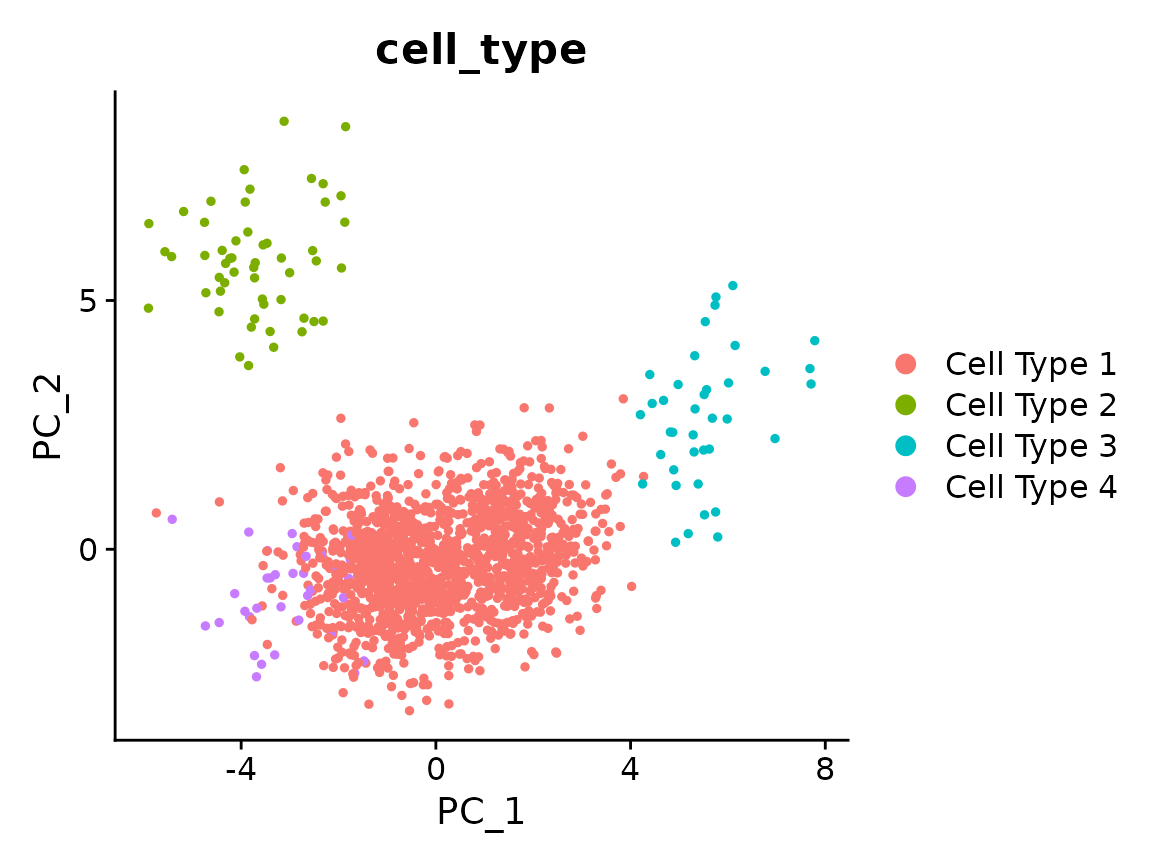
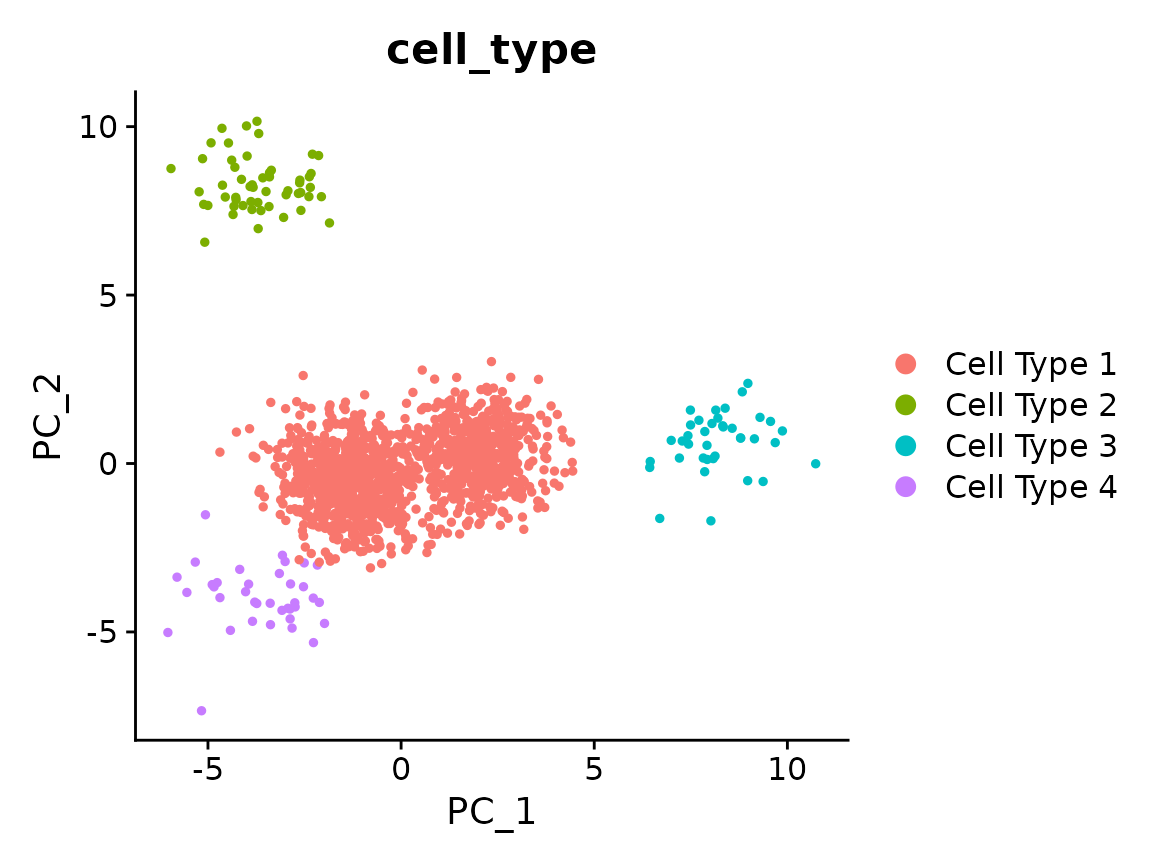
Deploying to gh-pages from @ MartinLoza/Canek@cd2e9c60eefc0420d307918d206038c7bbc76179 🚀

diff --git a/articles/seurat.html b/articles/seurat.html
@@ -39,7 +39,7 @@
       </button>
       <span class="navbar-brand">
         <a class="navbar-link" href="../index.html">Canek</a>
-        <span class="version label label-default" data-toggle="tooltip" data-placement="bottom" title="">0.2.1</span>
+        <span class="version label label-default" data-toggle="tooltip" data-placement="bottom" title="">0.2.2</span>
       </span>
     </div>
 
@@ -120,7 +120,7 @@
 <span><span class="co">#&gt; 631 948</span></span></code></pre></div>
 <div class="sourceCode" id="cb4"><pre class="downlit sourceCode r">
 <code class="sourceCode R"><span><span class="va">x</span> <span class="op">&lt;-</span> <span class="fu"><a href="https://satijalab.org/seurat/reference/NormalizeData.html" class="external-link">NormalizeData</a></span><span class="op">(</span><span class="va">x</span><span class="op">)</span></span>
-<span><span class="va">x</span> <span class="op">&lt;-</span> <span class="fu"><a href="https://satijalab.org/seurat/reference/FindVariableFeatures.html" class="external-link">FindVariableFeatures</a></span><span class="op">(</span><span class="va">x</span>, selection.method <span class="op">=</span> <span class="st">"mean.var.plot"</span><span class="op">)</span></span>
+<span><span class="va">x</span> <span class="op">&lt;-</span> <span class="fu"><a href="https://satijalab.org/seurat/reference/FindVariableFeatures.html" class="external-link">FindVariableFeatures</a></span><span class="op">(</span><span class="va">x</span>, nfeatures<span class="op">=</span><span class="fl">100</span><span class="op">)</span></span>
 <span><span class="fu"><a href="https://satijalab.org/seurat/reference/VariableFeaturePlot.html" class="external-link">VariableFeaturePlot</a></span><span class="op">(</span><span class="va">x</span><span class="op">)</span></span></code></pre></div>
 <p><img src="seurat_files/figure-html/unnamed-chunk-4-1.png" width="576" style="display: block; margin: auto;"></p>
 <div class="sourceCode" id="cb5"><pre class="downlit sourceCode r">
@@ -131,40 +131,40 @@
 <span><span class="co">#&gt; Warning in irlba(A = t(x = object), nv = npcs, ...): You're computing too large</span></span>
 <span><span class="co">#&gt; a percentage of total singular values, use a standard svd instead.</span></span>
 <span><span class="co">#&gt; PC_ 1 </span></span>
-<span><span class="co">#&gt; Positive:  Gene65, Gene410, Gene373, Gene449, Gene323, Gene473, Gene61, Gene250, Gene50, Gene89 </span></span>
-<span><span class="co">#&gt;     Gene378, Gene342, Gene469, Gene24, Gene207, Gene213, Gene54, Gene471, Gene224, Gene64 </span></span>
-<span><span class="co">#&gt;     Gene4, Gene348, Gene432, Gene375, Gene94, Gene422, Gene439, Gene396, Gene78, Gene487 </span></span>
-<span><span class="co">#&gt; Negative:  Gene461, Gene341, Gene492, Gene183, Gene136, Gene31, Gene366, Gene311, Gene5, Gene140 </span></span>
-<span><span class="co">#&gt;     Gene460, Gene438, Gene162, Gene187, Gene211, Gene370, Gene401, Gene172, Gene147, Gene474 </span></span>
-<span><span class="co">#&gt;     Gene326, Gene223, Gene74, Gene354, Gene220, Gene361, Gene304, Gene77, Gene322, Gene359 </span></span>
+<span><span class="co">#&gt; Positive:  Gene130, Gene410, Gene373, Gene65, Gene274, Gene481, Gene285, Gene449, Gene382, Gene281 </span></span>
+<span><span class="co">#&gt;     Gene323, Gene376, Gene229, Gene489, Gene473, Gene61, Gene50, Gene427, Gene174, Gene484 </span></span>
+<span><span class="co">#&gt;     Gene193, Gene207, Gene24, Gene342, Gene297, Gene471, Gene292, Gene255, Gene226, Gene348 </span></span>
+<span><span class="co">#&gt; Negative:  Gene461, Gene341, Gene492, Gene389, Gene178, Gene136, Gene468, Gene183, Gene366, Gene362 </span></span>
+<span><span class="co">#&gt;     Gene234, Gene127, Gene416, Gene290, Gene5, Gene228, Gene311, Gene31, Gene9, Gene162 </span></span>
+<span><span class="co">#&gt;     Gene370, Gene172, Gene474, Gene74, Gene386, Gene30, Gene401, Gene296, Gene326, Gene185 </span></span>
 <span><span class="co">#&gt; PC_ 2 </span></span>
-<span><span class="co">#&gt; Positive:  Gene322, Gene31, Gene223, Gene211, Gene64, Gene373, Gene341, Gene410, Gene449, Gene323 </span></span>
-<span><span class="co">#&gt;     Gene224, Gene220, Gene327, Gene361, Gene461, Gene207, Gene61, Gene89, Gene209, Gene183 </span></span>
-<span><span class="co">#&gt;     Gene375, Gene487, Gene75, Gene354, Gene378, Gene451, Gene348, Gene471, Gene77, Gene460 </span></span>
-<span><span class="co">#&gt; Negative:  Gene4, Gene366, Gene74, Gene213, Gene136, Gene65, Gene473, Gene94, Gene492, Gene5 </span></span>
-<span><span class="co">#&gt;     Gene78, Gene14, Gene311, Gene326, Gene432, Gene422, Gene438, Gene401, Gene497, Gene328 </span></span>
-<span><span class="co">#&gt;     Gene474, Gene250, Gene381, Gene147, Gene141, Gene342, Gene54, Gene172, Gene239, Gene162 </span></span>
+<span><span class="co">#&gt; Positive:  Gene322, Gene31, Gene498, Gene297, Gene174, Gene223, Gene472, Gene228, Gene461, Gene341 </span></span>
+<span><span class="co">#&gt;     Gene481, Gene489, Gene9, Gene449, Gene61, Gene176, Gene234, Gene160, Gene220, Gene427 </span></span>
+<span><span class="co">#&gt;     Gene323, Gene373, Gene57, Gene303, Gene24, Gene410, Gene292, Gene298, Gene239, Gene382 </span></span>
+<span><span class="co">#&gt; Negative:  Gene358, Gene17, Gene4, Gene229, Gene484, Gene296, Gene74, Gene366, Gene386, Gene65 </span></span>
+<span><span class="co">#&gt;     Gene165, Gene213, Gene473, Gene226, Gene94, Gene369, Gene401, Gene185, Gene136, Gene376 </span></span>
+<span><span class="co">#&gt;     Gene389, Gene78, Gene183, Gene492, Gene28, Gene36, Gene311, Gene285, Gene471, Gene326 </span></span>
 <span><span class="co">#&gt; PC_ 3 </span></span>
-<span><span class="co">#&gt; Positive:  Gene311, Gene239, Gene471, Gene322, Gene492, Gene410, Gene323, Gene65, Gene378, Gene354 </span></span>
-<span><span class="co">#&gt;     Gene5, Gene469, Gene250, Gene183, Gene136, Gene207, Gene438, Gene348, Gene461, Gene453 </span></span>
-<span><span class="co">#&gt;     Gene439, Gene366, Gene64, Gene31, Gene140, Gene75, Gene22, Gene432, Gene141, Gene24 </span></span>
-<span><span class="co">#&gt; Negative:  Gene327, Gene94, Gene224, Gene223, Gene77, Gene449, Gene74, Gene341, Gene220, Gene162 </span></span>
-<span><span class="co">#&gt;     Gene473, Gene209, Gene326, Gene304, Gene261, Gene89, Gene474, Gene342, Gene187, Gene460 </span></span>
-<span><span class="co">#&gt;     Gene50, Gene18, Gene4, Gene396, Gene61, Gene213, Gene147, Gene361, Gene422, Gene381 </span></span>
+<span><span class="co">#&gt; Positive:  Gene178, Gene290, Gene255, Gene303, Gene449, Gene489, Gene481, Gene160, Gene239, Gene285 </span></span>
+<span><span class="co">#&gt;     Gene61, Gene94, Gene366, Gene162, Gene136, Gene213, Gene342, Gene416, Gene369, Gene5 </span></span>
+<span><span class="co">#&gt;     Gene24, Gene4, Gene17, Gene74, Gene226, Gene461, Gene473, Gene229, Gene390, Gene474 </span></span>
+<span><span class="co">#&gt; Negative:  Gene183, Gene484, Gene472, Gene471, Gene322, Gene401, Gene296, Gene193, Gene386, Gene327 </span></span>
+<span><span class="co">#&gt;     Gene185, Gene382, Gene223, Gene427, Gene3, Gene373, Gene174, Gene281, Gene274, Gene477 </span></span>
+<span><span class="co">#&gt;     Gene305, Gene341, Gene31, Gene130, Gene311, Gene220, Gene207, Gene389, Gene498, Gene297 </span></span>
 <span><span class="co">#&gt; PC_ 4 </span></span>
-<span><span class="co">#&gt; Positive:  Gene61, Gene449, Gene261, Gene239, Gene461, Gene162, Gene209, Gene141, Gene342, Gene195 </span></span>
-<span><span class="co">#&gt;     Gene5, Gene439, Gene31, Gene250, Gene24, Gene136, Gene54, Gene94, Gene64, Gene298 </span></span>
-<span><span class="co">#&gt;     Gene22, Gene323, Gene14, Gene147, Gene366, Gene381, Gene211, Gene474, Gene140, Gene359 </span></span>
-<span><span class="co">#&gt; Negative:  Gene183, Gene401, Gene224, Gene471, Gene327, Gene361, Gene311, Gene50, Gene373, Gene65 </span></span>
-<span><span class="co">#&gt;     Gene378, Gene422, Gene4, Gene322, Gene223, Gene74, Gene487, Gene207, Gene220, Gene213 </span></span>
-<span><span class="co">#&gt;     Gene497, Gene375, Gene18, Gene78, Gene453, Gene243, Gene410, Gene304, Gene473, Gene492 </span></span>
+<span><span class="co">#&gt; Positive:  Gene427, Gene477, Gene57, Gene322, Gene311, Gene183, Gene28, Gene22, Gene127, Gene30 </span></span>
+<span><span class="co">#&gt;     Gene165, Gene5, Gene432, Gene474, Gene3, Gene239, Gene24, Gene281, Gene352, Gene390 </span></span>
+<span><span class="co">#&gt;     Gene193, Gene65, Gene369, Gene78, Gene213, Gene50, Gene342, Gene354, Gene298, Gene292 </span></span>
+<span><span class="co">#&gt; Negative:  Gene386, Gene274, Gene228, Gene94, Gene395, Gene327, Gene178, Gene223, Gene341, Gene449 </span></span>
+<span><span class="co">#&gt;     Gene145, Gene461, Gene484, Gene468, Gene61, Gene473, Gene31, Gene297, Gene36, Gene498 </span></span>
+<span><span class="co">#&gt;     Gene481, Gene234, Gene172, Gene185, Gene410, Gene290, Gene18, Gene207, Gene472, Gene174 </span></span>
 <span><span class="co">#&gt; PC_ 5 </span></span>
-<span><span class="co">#&gt; Positive:  Gene94, Gene207, Gene449, Gene461, Gene75, Gene4, Gene410, Gene304, Gene261, Gene65 </span></span>
-<span><span class="co">#&gt;     Gene354, Gene327, Gene366, Gene136, Gene54, Gene492, Gene473, Gene74, Gene18, Gene31 </span></span>
-<span><span class="co">#&gt;     Gene341, Gene323, Gene348, Gene239, Gene223, Gene311, Gene213, Gene172, Gene224, Gene61 </span></span>
-<span><span class="co">#&gt; Negative:  Gene422, Gene195, Gene89, Gene209, Gene250, Gene432, Gene22, Gene342, Gene147, Gene396 </span></span>
-<span><span class="co">#&gt;     Gene359, Gene140, Gene78, Gene453, Gene220, Gene243, Gene14, Gene474, Gene326, Gene50 </span></span>
-<span><span class="co">#&gt;     Gene322, Gene439, Gene77, Gene425, Gene298, Gene183, Gene24, Gene438, Gene162, Gene361</span></span></code></pre></div>
+<span><span class="co">#&gt; Positive:  Gene327, Gene191, Gene36, Gene223, Gene162, Gene305, Gene220, Gene474, Gene50, Gene285 </span></span>
+<span><span class="co">#&gt;     Gene74, Gene342, Gene174, Gene160, Gene234, Gene326, Gene373, Gene341, Gene468, Gene78 </span></span>
+<span><span class="co">#&gt;     Gene382, Gene473, Gene352, Gene281, Gene416, Gene255, Gene375, Gene298, Gene94, Gene30 </span></span>
+<span><span class="co">#&gt; Negative:  Gene178, Gene311, Gene297, Gene303, Gene410, Gene165, Gene461, Gene193, Gene471, Gene323 </span></span>
+<span><span class="co">#&gt;     Gene239, Gene376, Gene65, Gene492, Gene386, Gene207, Gene31, Gene136, Gene472, Gene185 </span></span>
+<span><span class="co">#&gt;     Gene481, Gene322, Gene362, Gene389, Gene489, Gene366, Gene484, Gene229, Gene427, Gene9</span></span></code></pre></div>
 <div class="section level3">
 <h3 id="pca-plot-before-correction">PCA plot before correction<a class="anchor" aria-label="anchor" href="#pca-plot-before-correction"></a>
 </h3>
@@ -185,61 +185,62 @@
 <span><span class="co">#&gt; Warning in (function (A, nv = 5, nu = nv, maxit = 1000, work = nv + 7, reorth =</span></span>
 <span><span class="co">#&gt; TRUE, : You're computing too large a percentage of total singular values, use a</span></span>
 <span><span class="co">#&gt; standard svd instead.</span></span></code></pre></div>
+<p>The features selected during integration are assigned as variable
+features.</p>
 <div class="sourceCode" id="cb10"><pre class="downlit sourceCode r">
-<code class="sourceCode R"><span><span class="va">x</span> <span class="op">&lt;-</span> <span class="fu"><a href="https://satijalab.org/seurat/reference/ScaleData.html" class="external-link">ScaleData</a></span><span class="op">(</span><span class="va">x</span><span class="op">)</span></span>
-<span><span class="co">#&gt; Centering and scaling data matrix</span></span></code></pre></div>
+<code class="sourceCode R"><span><span class="fu"><a href="https://rdrr.io/r/utils/head.html" class="external-link">head</a></span><span class="op">(</span><span class="fu"><a href="https://mojaveazure.github.io/seurat-object/reference/VariableFeatures.html" class="external-link">VariableFeatures</a></span><span class="op">(</span><span class="va">x</span>, assay<span class="op">=</span><span class="st">"Canek"</span><span class="op">)</span><span class="op">)</span></span>
+<span><span class="co">#&gt; [1] "Gene461" "Gene348" "Gene322" "Gene57"  "Gene61"  "Gene183"</span></span></code></pre></div>
+<p>We scale features and run PCA.</p>
 <div class="sourceCode" id="cb11"><pre class="downlit sourceCode r">
-<code class="sourceCode R"><span><span class="va">x</span> <span class="op">&lt;-</span> <span class="fu"><a href="https://satijalab.org/seurat/reference/FindVariableFeatures.html" class="external-link">FindVariableFeatures</a></span><span class="op">(</span><span class="va">x</span>, nfeatures <span class="op">=</span> <span class="fl">500</span><span class="op">)</span></span>
-<span><span class="fu"><a href="https://satijalab.org/seurat/reference/VariableFeaturePlot.html" class="external-link">VariableFeaturePlot</a></span><span class="op">(</span><span class="va">x</span><span class="op">)</span></span></code></pre></div>
-<p><img src="seurat_files/figure-html/unnamed-chunk-10-1.png" width="576" style="display: block; margin: auto;"></p>
-<div class="sourceCode" id="cb12"><pre class="downlit sourceCode r">
-<code class="sourceCode R"><span><span class="va">x</span> <span class="op">&lt;-</span> <span class="fu"><a href="https://satijalab.org/seurat/reference/RunPCA.html" class="external-link">RunPCA</a></span><span class="op">(</span><span class="va">x</span><span class="op">)</span></span>
+<code class="sourceCode R"><span><span class="va">x</span> <span class="op">&lt;-</span> <span class="fu"><a href="https://satijalab.org/seurat/reference/ScaleData.html" class="external-link">ScaleData</a></span><span class="op">(</span><span class="va">x</span><span class="op">)</span></span>
+<span><span class="co">#&gt; Centering and scaling data matrix</span></span>
+<span><span class="va">x</span> <span class="op">&lt;-</span> <span class="fu"><a href="https://satijalab.org/seurat/reference/RunPCA.html" class="external-link">RunPCA</a></span><span class="op">(</span><span class="va">x</span><span class="op">)</span></span>
 <span><span class="co">#&gt; Warning in irlba(A = t(x = object), nv = npcs, ...): You're computing too large</span></span>
 <span><span class="co">#&gt; a percentage of total singular values, use a standard svd instead.</span></span>
 <span><span class="co">#&gt; PC_ 1 </span></span>
-<span><span class="co">#&gt; Positive:  Gene31, Gene461, Gene322, Gene341, Gene211, Gene223, Gene64, Gene183, Gene361, Gene311 </span></span>
-<span><span class="co">#&gt;     Gene354, Gene220, Gene140, Gene207, Gene239, Gene410, Gene492, Gene323, Gene370, Gene460 </span></span>
-<span><span class="co">#&gt;     Gene451, Gene187, Gene438, Gene471, Gene75, Gene487, Gene209, Gene195, Gene453, Gene298 </span></span>
-<span><span class="co">#&gt; Negative:  Gene4, Gene65, Gene473, Gene74, Gene213, Gene94, Gene366, Gene50, Gene78, Gene342 </span></span>
-<span><span class="co">#&gt;     Gene250, Gene422, Gene14, Gene432, Gene327, Gene89, Gene54, Gene326, Gene497, Gene449 </span></span>
-<span><span class="co">#&gt;     Gene136, Gene396, Gene328, Gene224, Gene381, Gene474, Gene469, Gene373, Gene261, Gene141 </span></span>
+<span><span class="co">#&gt; Positive:  Gene358, Gene229, Gene17, Gene4, Gene65, Gene484, Gene473, Gene74, Gene296, Gene285 </span></span>
+<span><span class="co">#&gt;     Gene213, Gene386, Gene376, Gene226, Gene94, Gene369, Gene274, Gene327, Gene366, Gene165 </span></span>
+<span><span class="co">#&gt;     Gene50, Gene130, Gene185, Gene78, Gene36, Gene401, Gene28, Gene281, Gene373, Gene145 </span></span>
+<span><span class="co">#&gt; Negative:  Gene461, Gene31, Gene322, Gene341, Gene297, Gene498, Gene472, Gene228, Gene9, Gene223 </span></span>
+<span><span class="co">#&gt;     Gene234, Gene174, Gene176, Gene178, Gene239, Gene303, Gene489, Gene160, Gene298, Gene220 </span></span>
+<span><span class="co">#&gt;     Gene57, Gene477, Gene162, Gene427, Gene61, Gene481, Gene354, Gene30, Gene22, Gene492 </span></span>
 <span><span class="co">#&gt; PC_ 2 </span></span>
-<span><span class="co">#&gt; Positive:  Gene492, Gene311, Gene366, Gene136, Gene461, Gene5, Gene239, Gene438, Gene471, Gene183 </span></span>
-<span><span class="co">#&gt;     Gene140, Gene354, Gene401, Gene195, Gene4, Gene370, Gene147, Gene453, Gene65, Gene78 </span></span>
-<span><span class="co">#&gt;     Gene328, Gene172, Gene74, Gene497, Gene22, Gene359, Gene14, Gene213, Gene298, Gene432 </span></span>
-<span><span class="co">#&gt; Negative:  Gene327, Gene373, Gene449, Gene224, Gene223, Gene89, Gene61, Gene220, Gene50, Gene410 </span></span>
-<span><span class="co">#&gt;     Gene64, Gene211, Gene94, Gene341, Gene473, Gene209, Gene342, Gene77, Gene361, Gene322 </span></span>
-<span><span class="co">#&gt;     Gene375, Gene31, Gene323, Gene304, Gene261, Gene396, Gene207, Gene422, Gene18, Gene54 </span></span>
+<span><span class="co">#&gt; Positive:  Gene311, Gene492, Gene165, Gene366, Gene389, Gene183, Gene136, Gene461, Gene127, Gene5 </span></span>
+<span><span class="co">#&gt;     Gene401, Gene296, Gene471, Gene362, Gene193, Gene185, Gene239, Gene178, Gene9, Gene427 </span></span>
+<span><span class="co">#&gt;     Gene370, Gene17, Gene416, Gene30, Gene57, Gene303, Gene354, Gene4, Gene229, Gene472 </span></span>
+<span><span class="co">#&gt; Negative:  Gene449, Gene274, Gene327, Gene373, Gene481, Gene285, Gene174, Gene223, Gene281, Gene61 </span></span>
+<span><span class="co">#&gt;     Gene382, Gene130, Gene489, Gene395, Gene36, Gene160, Gene50, Gene498, Gene255, Gene94 </span></span>
+<span><span class="co">#&gt;     Gene342, Gene228, Gene410, Gene220, Gene305, Gene234, Gene473, Gene145, Gene162, Gene341 </span></span>
 <span><span class="co">#&gt; PC_ 3 </span></span>
-<span><span class="co">#&gt; Positive:  Gene61, Gene449, Gene261, Gene461, Gene162, Gene209, Gene342, Gene239, Gene141, Gene94 </span></span>
-<span><span class="co">#&gt;     Gene195, Gene24, Gene5, Gene439, Gene250, Gene136, Gene147, Gene298, Gene31, Gene77 </span></span>
-<span><span class="co">#&gt;     Gene14, Gene474, Gene54, Gene89, Gene341, Gene425, Gene359, Gene22, Gene64, Gene366 </span></span>
-<span><span class="co">#&gt; Negative:  Gene183, Gene401, Gene471, Gene224, Gene361, Gene327, Gene311, Gene322, Gene65, Gene373 </span></span>
-<span><span class="co">#&gt;     Gene378, Gene410, Gene50, Gene422, Gene207, Gene487, Gene4, Gene492, Gene223, Gene453 </span></span>
-<span><span class="co">#&gt;     Gene74, Gene370, Gene375, Gene497, Gene220, Gene18, Gene78, Gene213, Gene354, Gene243 </span></span>
+<span><span class="co">#&gt; Positive:  Gene178, Gene290, Gene303, Gene255, Gene481, Gene489, Gene449, Gene239, Gene160, Gene366 </span></span>
+<span><span class="co">#&gt;     Gene136, Gene94, Gene285, Gene61, Gene461, Gene162, Gene416, Gene5, Gene213, Gene369 </span></span>
+<span><span class="co">#&gt;     Gene17, Gene4, Gene342, Gene24, Gene74, Gene229, Gene362, Gene226, Gene65, Gene473 </span></span>
+<span><span class="co">#&gt; Negative:  Gene183, Gene484, Gene472, Gene322, Gene471, Gene327, Gene401, Gene382, Gene373, Gene296 </span></span>
+<span><span class="co">#&gt;     Gene223, Gene193, Gene386, Gene274, Gene174, Gene185, Gene281, Gene427, Gene3, Gene130 </span></span>
+<span><span class="co">#&gt;     Gene341, Gene305, Gene220, Gene477, Gene498, Gene31, Gene207, Gene36, Gene410, Gene50 </span></span>
 <span><span class="co">#&gt; PC_ 4 </span></span>
-<span><span class="co">#&gt; Positive:  Gene410, Gene449, Gene94, Gene65, Gene207, Gene461, Gene366, Gene4, Gene304, Gene75 </span></span>
-<span><span class="co">#&gt;     Gene261, Gene136, Gene327, Gene354, Gene54, Gene74, Gene492, Gene18, Gene473, Gene323 </span></span>
-<span><span class="co">#&gt;     Gene341, Gene31, Gene311, Gene348, Gene172, Gene213, Gene239, Gene61, Gene451, Gene64 </span></span>
-<span><span class="co">#&gt; Negative:  Gene422, Gene195, Gene147, Gene89, Gene209, Gene250, Gene359, Gene22, Gene432, Gene342 </span></span>
-<span><span class="co">#&gt;     Gene396, Gene78, Gene140, Gene243, Gene453, Gene220, Gene77, Gene50, Gene326, Gene425 </span></span>
-<span><span class="co">#&gt;     Gene474, Gene14, Gene439, Gene322, Gene298, Gene438, Gene24, Gene183, Gene162, Gene460 </span></span>
+<span><span class="co">#&gt; Positive:  Gene427, Gene477, Gene57, Gene281, Gene322, Gene50, Gene474, Gene342, Gene22, Gene352 </span></span>
+<span><span class="co">#&gt;     Gene191, Gene285, Gene30, Gene160, Gene432, Gene24, Gene28, Gene183, Gene298, Gene373 </span></span>
+<span><span class="co">#&gt;     Gene3, Gene255, Gene220, Gene213, Gene78, Gene326, Gene416, Gene305, Gene369, Gene382 </span></span>
+<span><span class="co">#&gt; Negative:  Gene386, Gene178, Gene274, Gene461, Gene228, Gene94, Gene410, Gene297, Gene484, Gene395 </span></span>
+<span><span class="co">#&gt;     Gene145, Gene341, Gene31, Gene185, Gene472, Gene389, Gene376, Gene207, Gene362, Gene481 </span></span>
+<span><span class="co">#&gt;     Gene492, Gene471, Gene468, Gene303, Gene323, Gene449, Gene498, Gene172, Gene130, Gene290 </span></span>
 <span><span class="co">#&gt; PC_ 5 </span></span>
-<span><span class="co">#&gt; Positive:  Gene224, Gene94, Gene425, Gene187, Gene451, Gene147, Gene497, Gene396, Gene326, Gene24 </span></span>
-<span><span class="co">#&gt;     Gene328, Gene487, Gene77, Gene162, Gene438, Gene378, Gene223, Gene75, Gene213, Gene473 </span></span>
-<span><span class="co">#&gt;     Gene243, Gene460, Gene298, Gene401, Gene14, Gene31, Gene469, Gene359, Gene381, Gene461 </span></span>
-<span><span class="co">#&gt; Negative:  Gene250, Gene89, Gene322, Gene22, Gene354, Gene140, Gene183, Gene432, Gene439, Gene65 </span></span>
-<span><span class="co">#&gt;     Gene449, Gene61, Gene54, Gene78, Gene74, Gene373, Gene195, Gene366, Gene4, Gene64 </span></span>
-<span><span class="co">#&gt;     Gene342, Gene410, Gene327, Gene18, Gene261, Gene5, Gene207, Gene474, Gene375, Gene239</span></span></code></pre></div>
+<span><span class="co">#&gt; Positive:  Gene473, Gene228, Gene94, Gene386, Gene495, Gene78, Gene395, Gene191, Gene223, Gene432 </span></span>
+<span><span class="co">#&gt;     Gene328, Gene30, Gene61, Gene298, Gene342, Gene292, Gene172, Gene352, Gene416, Gene401 </span></span>
+<span><span class="co">#&gt;     Gene50, Gene24, Gene127, Gene162, Gene474, Gene472, Gene9, Gene220, Gene296, Gene326 </span></span>
+<span><span class="co">#&gt; Negative:  Gene427, Gene477, Gene281, Gene322, Gene178, Gene358, Gene449, Gene145, Gene183, Gene410 </span></span>
+<span><span class="co">#&gt;     Gene481, Gene290, Gene57, Gene376, Gene354, Gene489, Gene484, Gene461, Gene311, Gene255 </span></span>
+<span><span class="co">#&gt;     Gene65, Gene323, Gene285, Gene207, Gene31, Gene389, Gene303, Gene234, Gene468, Gene136</span></span></code></pre></div>
 <div class="section level3">
 <h3 id="pca-plot-after-correction">PCA plot after correction<a class="anchor" aria-label="anchor" href="#pca-plot-after-correction"></a>
 </h3>
-<div class="sourceCode" id="cb13"><pre class="downlit sourceCode r">
+<div class="sourceCode" id="cb12"><pre class="downlit sourceCode r">
 <code class="sourceCode R"><span><span class="fu"><a href="https://satijalab.org/seurat/reference/DimPlot.html" class="external-link">DimPlot</a></span><span class="op">(</span><span class="va">x</span>, group.by <span class="op">=</span> <span class="st">"orig.ident"</span><span class="op">)</span></span></code></pre></div>
-<p><img src="seurat_files/figure-html/unnamed-chunk-12-1.png" width="576" style="display: block; margin: auto;"></p>
-<div class="sourceCode" id="cb14"><pre class="downlit sourceCode r">
+<p><img src="seurat_files/figure-html/unnamed-chunk-11-1.png" width="576" style="display: block; margin: auto;"></p>
+<div class="sourceCode" id="cb13"><pre class="downlit sourceCode r">
 <code class="sourceCode R"><span><span class="fu"><a href="https://satijalab.org/seurat/reference/DimPlot.html" class="external-link">DimPlot</a></span><span class="op">(</span><span class="va">x</span>, group.by <span class="op">=</span> <span class="st">"cell_type"</span><span class="op">)</span></span></code></pre></div>
-<p><img src="seurat_files/figure-html/unnamed-chunk-12-2.png" width="576" style="display: block; margin: auto;"></p>
+<p><img src="seurat_files/figure-html/unnamed-chunk-11-2.png" width="576" style="display: block; margin: auto;"></p>
 </div>
 </div>
   </div>

diff --git a/reference/RunCanek.html b/reference/RunCanek.html
@@ -23,7 +23,7 @@
       </button>
       <span class="navbar-brand">
         <a class="navbar-link" href="../index.html">Canek</a>
-        <span class="version label label-default" data-toggle="tooltip" data-placement="bottom" title="">0.2.1</span>
+        <span class="version label label-default" data-toggle="tooltip" data-placement="bottom" title="">0.2.2</span>
       </span>
     </div>
 
@@ -82,13 +82,14 @@
 <span>  assay <span class="op">=</span> <span class="st">"RNA"</span>,</span>
 <span>  features <span class="op">=</span> <span class="cn">NULL</span>,</span>
 <span>  selection.method <span class="op">=</span> <span class="st">"vst"</span>,</span>
+<span>  nfeatures <span class="op">=</span> <span class="fl">2000</span>,</span>
 <span>  fvf.nfeatures <span class="op">=</span> <span class="fl">2000</span>,</span>
 <span>  debug <span class="op">=</span> <span class="cn">FALSE</span>,</span>
 <span>  <span class="va">...</span></span>
 <span><span class="op">)</span></span>
 <span></span>
 <span><span class="co"># S3 method for SingleCellExperiment</span></span>
-<span><span class="fu">RunCanek</span><span class="op">(</span><span class="va">x</span>, batches <span class="op">=</span> <span class="cn">NULL</span>, assay <span class="op">=</span> <span class="st">"counts"</span>, debug <span class="op">=</span> <span class="cn">FALSE</span>, <span class="va">...</span><span class="op">)</span></span>
+<span><span class="fu">RunCanek</span><span class="op">(</span><span class="va">x</span>, batches <span class="op">=</span> <span class="cn">NULL</span>, assay <span class="op">=</span> <span class="st">"logcounts"</span>, debug <span class="op">=</span> <span class="cn">FALSE</span>, <span class="va">...</span><span class="op">)</span></span>
 <span></span>
 <span><span class="co"># S3 method for list</span></span>
 <span><span class="fu">RunCanek</span><span class="op">(</span><span class="va">x</span>, <span class="va">...</span><span class="op">)</span></span></code></pre></div>
@@ -124,8 +125,12 @@
 <dd><p>method used for FindVariableFeatures on Seurat objects when features is NULL.</p></dd>
 
 
+<dt>nfeatures</dt>
+<dd><p>number of features returned by SelectIntegrationFeatures.</p></dd>
+
+
 <dt>fvf.nfeatures</dt>
-<dd><p>function used to collapse variable features from different batches. Default is intersect.</p></dd>
+<dd><p>number of features returned by FindVariableFeatures.</p></dd>
 
 
 <dt>debug</dt>

diff --git a/articles/SingleCellExperiment.html b/articles/SingleCellExperiment.html
@@ -39,7 +39,7 @@
       </button>
       <span class="navbar-brand">
         <a class="navbar-link" href="../index.html">Canek</a>
-        <span class="version label label-default" data-toggle="tooltip" data-placement="bottom" title="">0.2.1</span>
+        <span class="version label label-default" data-toggle="tooltip" data-placement="bottom" title="">0.2.2</span>
       </span>
     </div>
 
@@ -216,9 +216,9 @@ minimize this batch differences with Canek.</p>
 <div class="section level2">
 <h2 id="correcting-batch-effects-with-canek">Correcting batch effects with Canek<a class="anchor" aria-label="anchor" href="#correcting-batch-effects-with-canek"></a>
 </h2>
-<p>Canek accepts either a list of <code>SingleCellExperiments</code>
-objects or single objects with a <code>batch</code> identifier. We can
-pass a vector of variable features to use in the integration.</p>
+<p>Canek accepts a <code>SingleCellExperiments</code> object with a
+<code>batch</code> identifier. We can pass a vector of variable features
+to use in the integration.</p>
 <div class="sourceCode" id="cb10"><pre class="downlit sourceCode r">
 <code class="sourceCode R"><span><span class="va">features</span> <span class="op">&lt;-</span> <span class="fu"><a href="https://rdrr.io/r/base/colnames.html" class="external-link">rownames</a></span><span class="op">(</span><span class="va">uncorrected</span><span class="op">)</span><span class="op">[</span><span class="va">combined_features</span><span class="op">]</span></span>
 <span><span class="co">#RunCanek in a list of SingleCellExperiment objects</span></span>
@@ -284,7 +284,7 @@ preserving the other cell types.</p>
 <span><span class="co">#&gt; [11] GenomeInfoDb_1.32.4         IRanges_2.30.1             </span></span>
 <span><span class="co">#&gt; [13] S4Vectors_0.34.0            BiocGenerics_0.42.0        </span></span>
 <span><span class="co">#&gt; [15] MatrixGenerics_1.8.1        matrixStats_0.63.0         </span></span>
-<span><span class="co">#&gt; [17] Canek_0.2.1                </span></span>
+<span><span class="co">#&gt; [17] Canek_0.2.2                </span></span>
 <span><span class="co">#&gt; </span></span>
 <span><span class="co">#&gt; loaded via a namespace (and not attached):</span></span>
 <span><span class="co">#&gt;   [1] ggbeeswarm_0.7.1          colorspace_2.0-3         </span></span>

diff --git a/articles/Best_practices_thymus.html b/articles/Best_practices_thymus.html
@@ -39,7 +39,7 @@
       </button>
       <span class="navbar-brand">
         <a class="navbar-link" href="../index.html">Canek</a>
-        <span class="version label label-default" data-toggle="tooltip" data-placement="bottom" title="">0.2.1</span>
+        <span class="version label label-default" data-toggle="tooltip" data-placement="bottom" title="">0.2.2</span>
       </span>
     </div>
 
@@ -448,7 +448,7 @@ minimize the batch difference in <em>immature T cells</em>.</p>
 <span><span class="co">#&gt; </span></span>
 <span><span class="co">#&gt; other attached packages:</span></span>
 <span><span class="co">#&gt; [1] here_1.0.1         patchwork_1.1.2    ggplot2_3.4.0      SeuratObject_4.1.3</span></span>
-<span><span class="co">#&gt; [5] Seurat_4.3.0       Canek_0.2.1       </span></span>
+<span><span class="co">#&gt; [5] Seurat_4.3.0       Canek_0.2.2       </span></span>
 <span><span class="co">#&gt; </span></span>
 <span><span class="co">#&gt; loaded via a namespace (and not attached):</span></span>
 <span><span class="co">#&gt;   [1] systemfonts_1.0.4      plyr_1.8.8             igraph_1.3.5          </span></span>

diff --git a/news/index.html b/news/index.html
@@ -23,7 +23,7 @@
       </button>
       <span class="navbar-brand">
         <a class="navbar-link" href="../index.html">Canek</a>
-        <span class="version label label-default" data-toggle="tooltip" data-placement="bottom" title="">0.2.1</span>
+        <span class="version label label-default" data-toggle="tooltip" data-placement="bottom" title="">0.2.2</span>
       </span>
     </div>
 
@@ -66,6 +66,13 @@
       
     </div>
 
+    <div class="section level2">
+<h2 class="page-header" data-toc-text="0.2.2" id="canek-022">Canek 0.2.2<a class="anchor" aria-label="anchor" href="#canek-022"></a></h2>
+<div class="section level3">
+<h3 id="changes-0-2-2">Changes<a class="anchor" aria-label="anchor" href="#changes-0-2-2"></a></h3>
+<ul><li>Refactor Seurat and SingleCellExperiment interfaces to preserve original objects.</li>
+</ul></div>
+</div>
     <div class="section level2">
 <h2 class="page-header" data-toc-text="0.2.1" id="canek-021">Canek 0.2.1<small>2022-05-10</small><a class="anchor" aria-label="anchor" href="#canek-021"></a></h2>
 <div class="section level3">

diff --git a/articles/toy_example.html b/articles/toy_example.html
@@ -39,7 +39,7 @@
       </button>
       <span class="navbar-brand">
         <a class="navbar-link" href="../index.html">Canek</a>
-        <span class="version label label-default" data-toggle="tooltip" data-placement="bottom" title="">0.2.1</span>
+        <span class="version label label-default" data-toggle="tooltip" data-placement="bottom" title="">0.2.2</span>
       </span>
     </div>
 
@@ -207,7 +207,7 @@ After correction, the cells group by their corresponding cell type.</p>
 <span><span class="co">#&gt; [1] stats     graphics  grDevices utils     datasets  methods   base     </span></span>
 <span><span class="co">#&gt; </span></span>
 <span><span class="co">#&gt; other attached packages:</span></span>
-<span><span class="co">#&gt; [1] Canek_0.2.1</span></span>
+<span><span class="co">#&gt; [1] Canek_0.2.2</span></span>
 <span><span class="co">#&gt; </span></span>
 <span><span class="co">#&gt; loaded via a namespace (and not attached):</span></span>
 <span><span class="co">#&gt;  [1] modeltools_0.2-23    xfun_0.36            bslib_0.4.2         </span></span>

diff --git a/404.html b/404.html
@@ -38,7 +38,7 @@
       </button>
       <span class="navbar-brand">
         <a class="navbar-link" href="https://martinloza.github.io/Canek/index.html">Canek</a>
-        <span class="version label label-default" data-toggle="tooltip" data-placement="bottom" title="">0.2.1</span>
+        <span class="version label label-default" data-toggle="tooltip" data-placement="bottom" title="">0.2.2</span>
       </span>
     </div>
 

diff --git a/articles/index.html b/articles/index.html
@@ -23,7 +23,7 @@
       </button>
       <span class="navbar-brand">
         <a class="navbar-link" href="../index.html">Canek</a>
-        <span class="version label label-default" data-toggle="tooltip" data-placement="bottom" title="">0.2.1</span>
+        <span class="version label label-default" data-toggle="tooltip" data-placement="bottom" title="">0.2.2</span>
       </span>
     </div>
 

diff --git a/reference/Canek-package.html b/reference/Canek-package.html
@@ -24,7 +24,7 @@
       </button>
       <span class="navbar-brand">
         <a class="navbar-link" href="../index.html">Canek</a>
-        <span class="version label label-default" data-toggle="tooltip" data-placement="bottom" title="">0.2.1</span>
+        <span class="version label label-default" data-toggle="tooltip" data-placement="bottom" title="">0.2.2</span>
       </span>
     </div>
 

diff --git a/reference/CheckZeroCV.html b/reference/CheckZeroCV.html
@@ -23,7 +23,7 @@
       </button>
       <span class="navbar-brand">
         <a class="navbar-link" href="../index.html">Canek</a>
-        <span class="version label label-default" data-toggle="tooltip" data-placement="bottom" title="">0.2.1</span>
+        <span class="version label label-default" data-toggle="tooltip" data-placement="bottom" title="">0.2.2</span>
       </span>
     </div>
 

diff --git a/reference/CorrectBatch.html b/reference/CorrectBatch.html
@@ -23,7 +23,7 @@
       </button>
       <span class="navbar-brand">
         <a class="navbar-link" href="../index.html">Canek</a>
-        <span class="version label label-default" data-toggle="tooltip" data-placement="bottom" title="">0.2.1</span>
+        <span class="version label label-default" data-toggle="tooltip" data-placement="bottom" title="">0.2.2</span>
       </span>
     </div>
 

diff --git a/reference/CorrectBatches.html b/reference/CorrectBatches.html
@@ -23,7 +23,7 @@
       </button>
       <span class="navbar-brand">
         <a class="navbar-link" href="../index.html">Canek</a>
-        <span class="version label label-default" data-toggle="tooltip" data-placement="bottom" title="">0.2.1</span>
+        <span class="version label label-default" data-toggle="tooltip" data-placement="bottom" title="">0.2.2</span>
       </span>
     </div>
 
